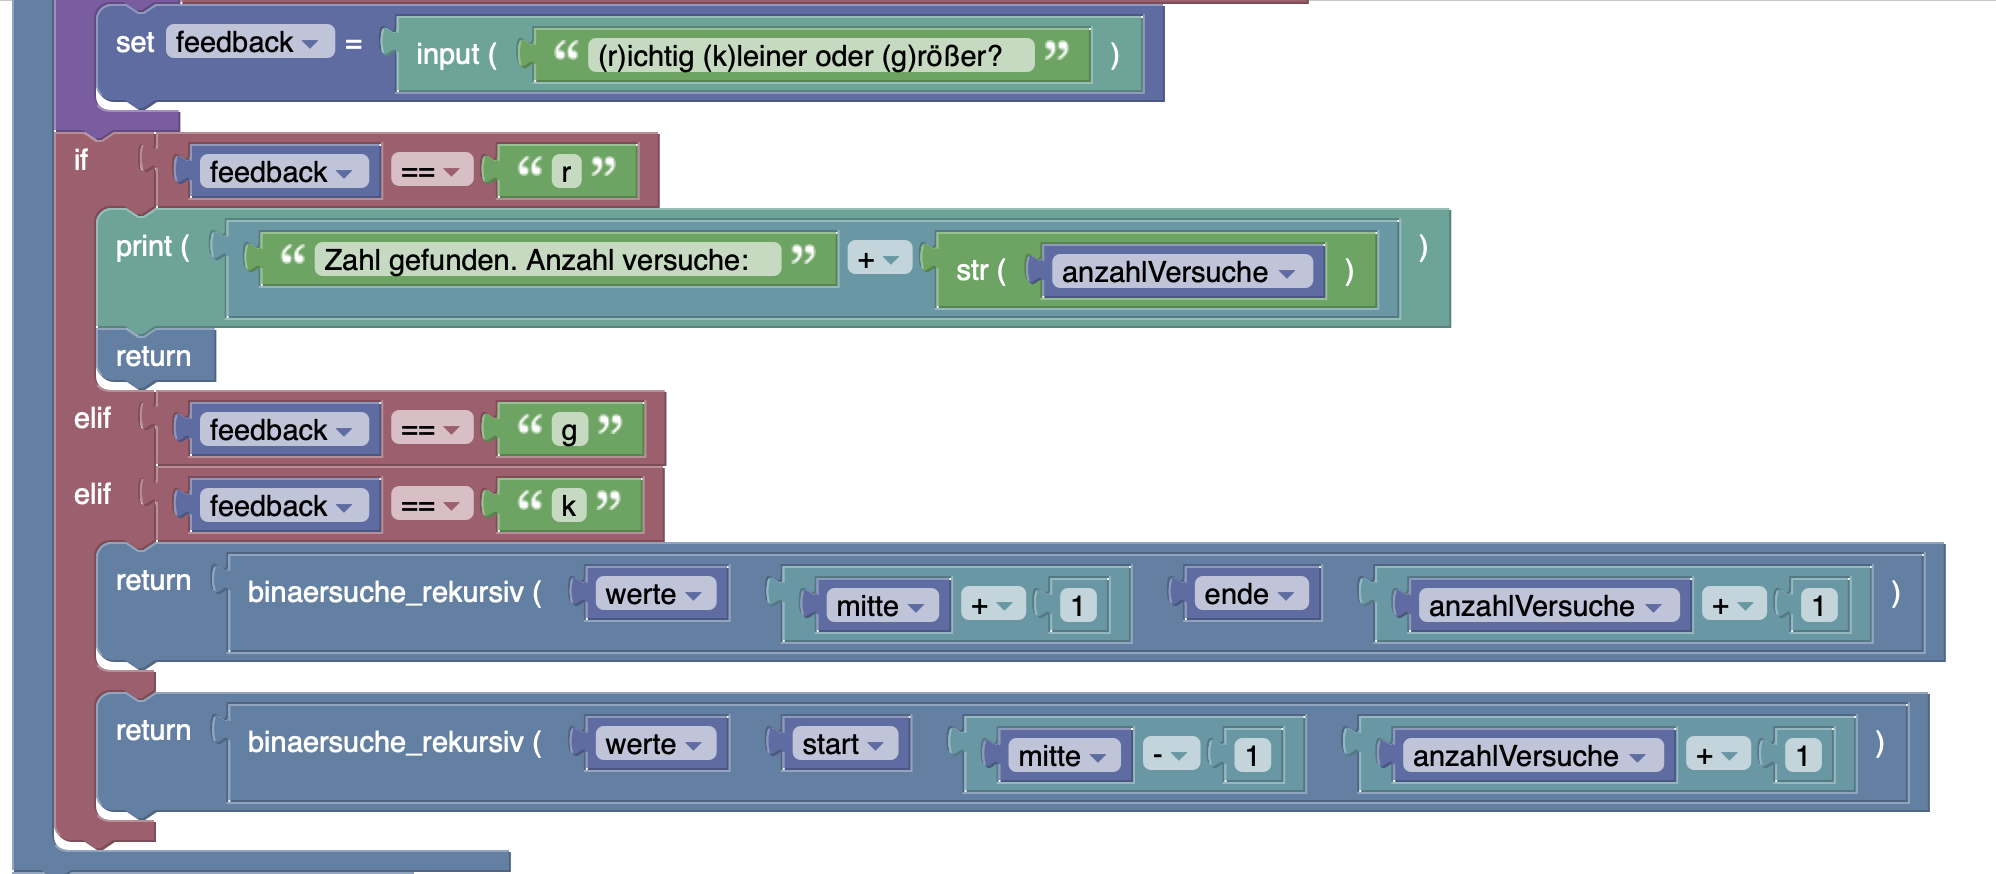
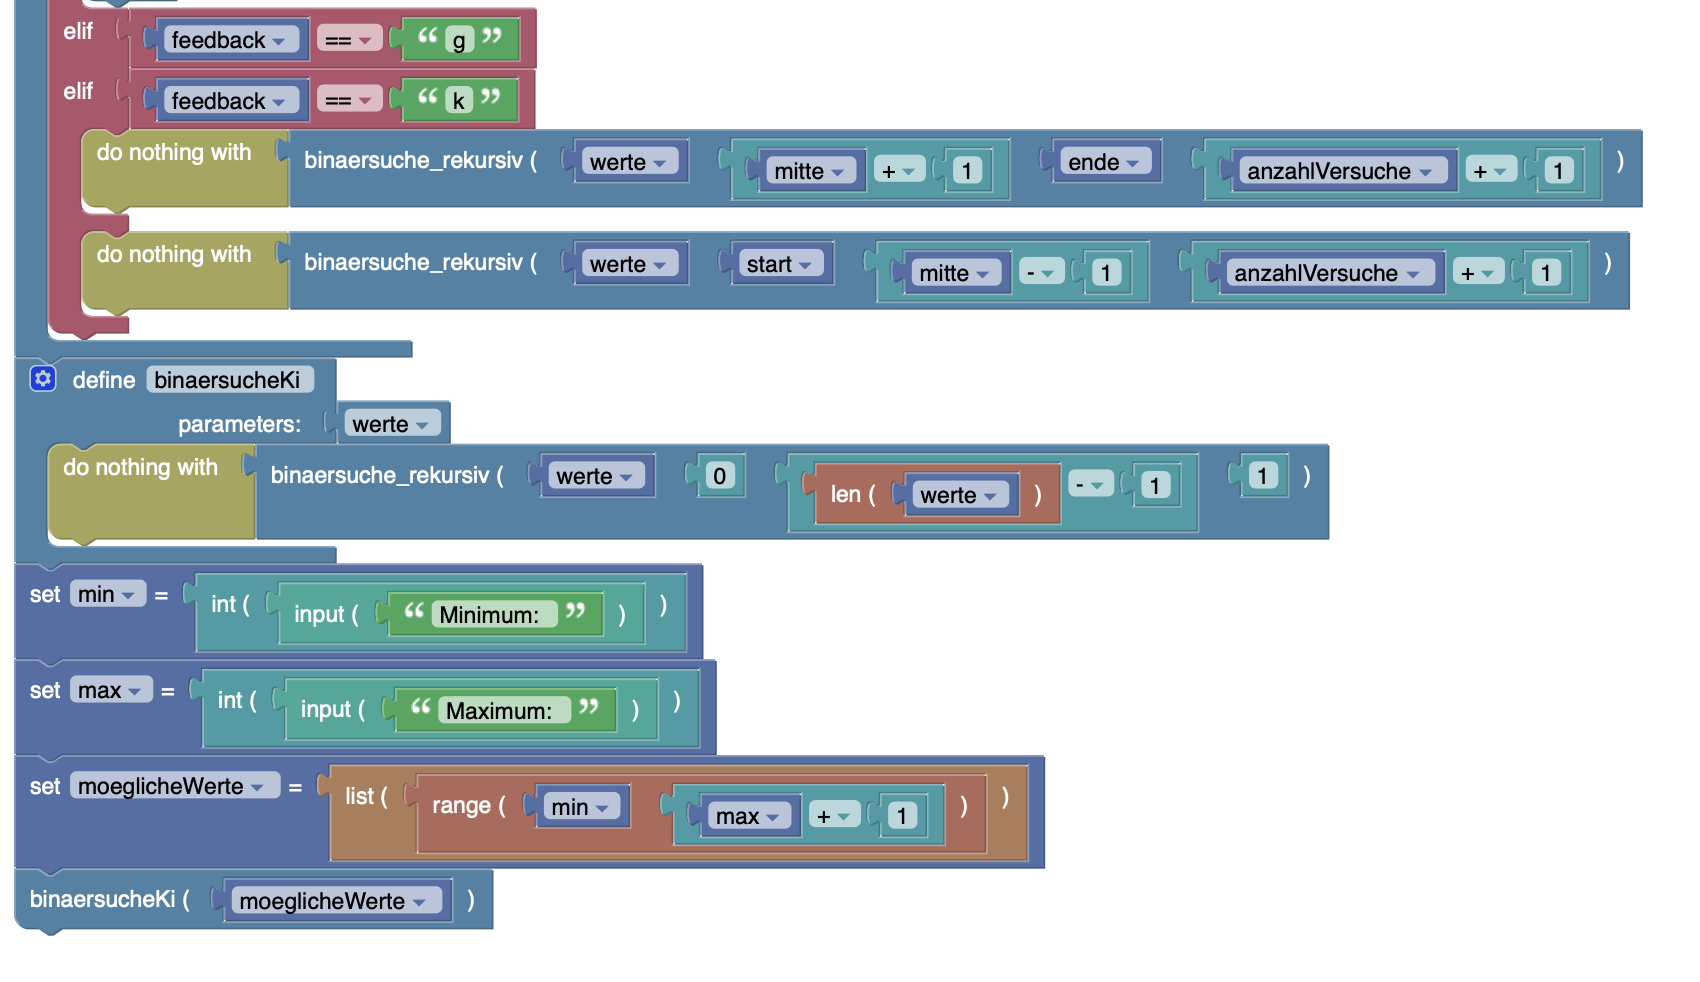
ZahlenratenKI refactored

diff --git a/VO-Teil-2/ZahlenratenKI/README.md b/VO-Teil-2/ZahlenratenKI/README.md
@@ -48,14 +48,14 @@ def binaersuche_rekursiv(werte, start, ende, anzahlVersuche):
     while feedback not in ("r","k","g"):
         feedback = input("(r)ichtig (k)leiner oder (g)rößer? ")
     if feedback == "r":
-        print("Zahl gefunden. Anzahl versuche: " + str(anzahlVersuche))
+        print("Zahl gefunden. Anzahl Versuche: " + str(anzahlVersuche))
         return
     elif feedback == "g":
-        return binaersuche_rekursiv(werte, mitte + 1, ende, anzahlVersuche+1)
+        binaersuche_rekursiv(werte, mitte + 1, ende, anzahlVersuche+1)
     elif feedback == "k":
-        return binaersuche_rekursiv(werte, start, mitte - 1, anzahlVersuche+1)
+        binaersuche_rekursiv(werte, start, mitte - 1, anzahlVersuche+1)
 def binaersucheKi(werte):
-    return binaersuche_rekursiv(werte, 0, len(werte) - 1, 1)
+    binaersuche_rekursiv(werte, 0, len(werte) - 1, 1)
 min = int(input("Minimum: "))
 max = int(input("Maximum: "))
 moeglicheWerte = list(range(min,max+1))
